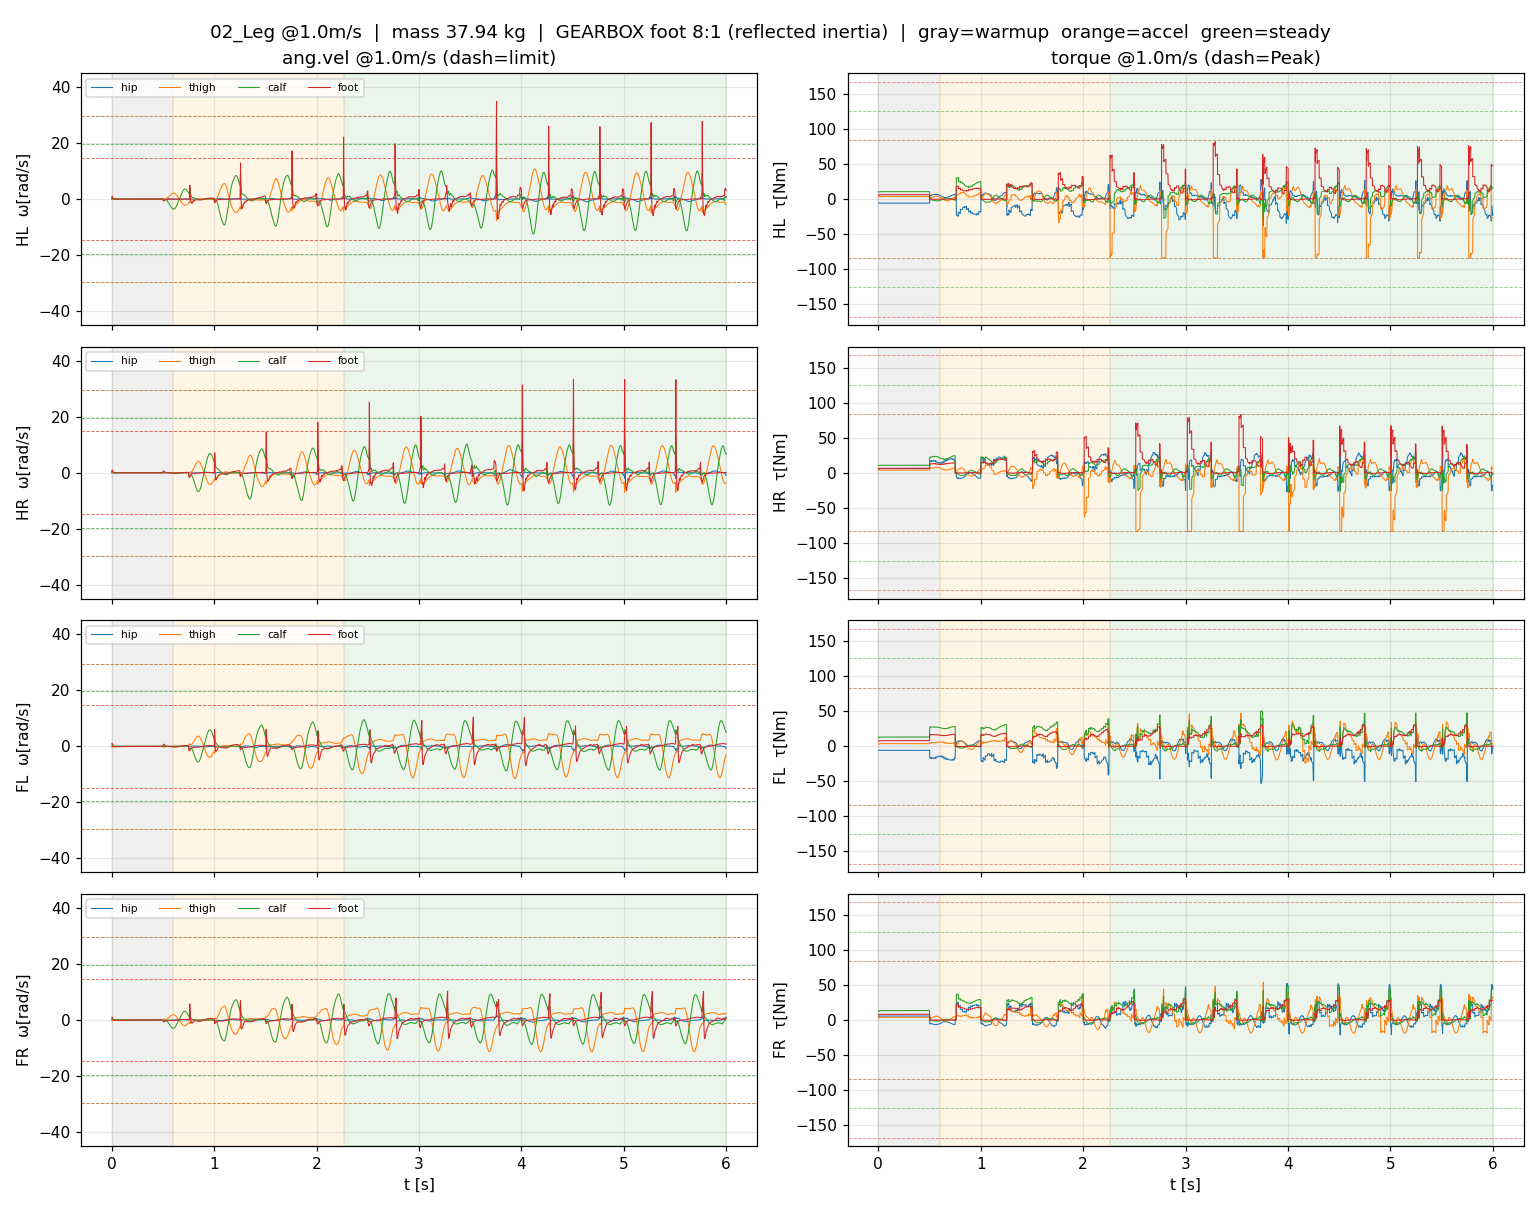
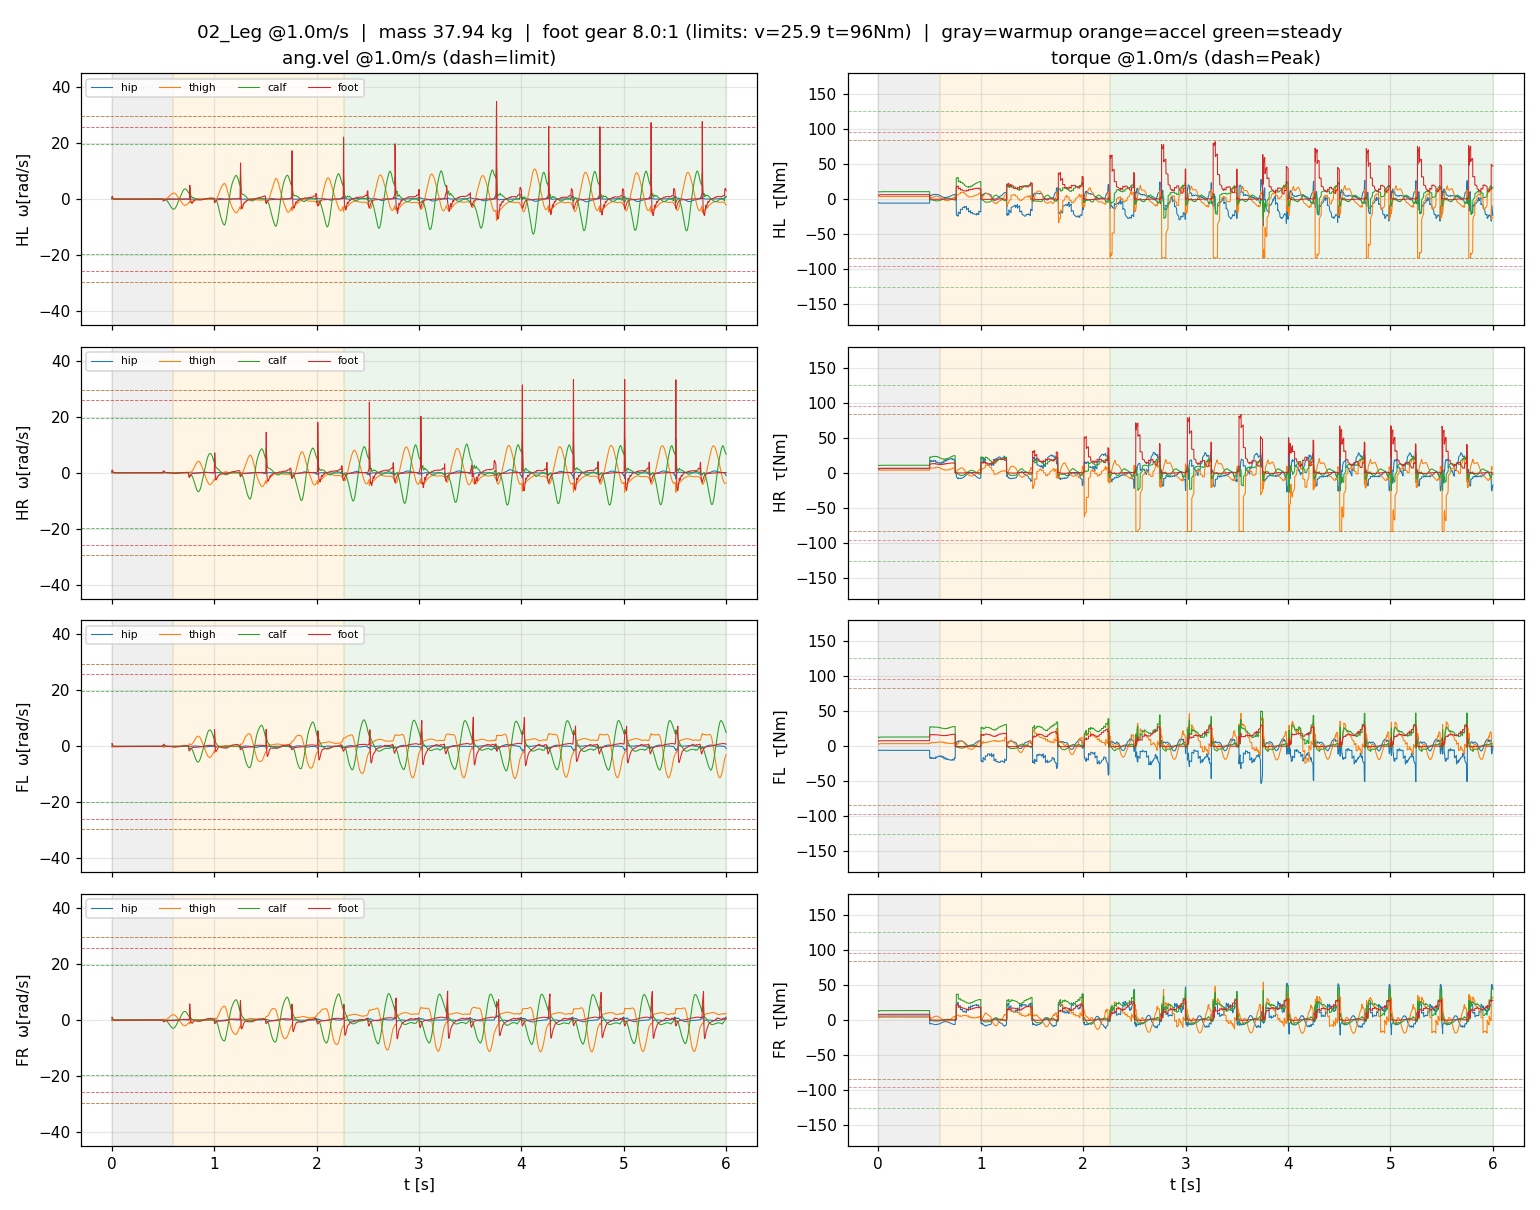
발별 그래프: 감속비 기반 한계선(토크=12·N, 속도=207/N) — foot 8:1 반영
한계가 기어비에 따라 변함(토크↑·속도↓ with N). GEAR_* env로 재기어 반영.
foot 8:1 → 속도한계 14.8→25.9, 토크한계 168→96.

Changed region(s): [[0.1247, 0.0, 0.8727, 0.0306]]

diff --git a/quad/plot_perfoot.py b/quad/plot_perfoot.py
@@ -12,9 +12,13 @@ out = sys.argv[2] if len(sys.argv) > 2 else '/home/jsh/문서/jsh/simulation/qua
 V = float(sys.argv[3]) if len(sys.argv) > 3 else 1.0
 mjcf = sys.argv[4] if len(sys.argv) > 4 else 'quad_real_17dof_sphere.mjcf'
 
-# 관절 한계 (02_Leg 모터): (Peak토크[Nm], 최대각속도[rad/s]). [[02leg-motor-spec]]
-TL = {'hip': 84, 'thigh': 84, 'calf': 126, 'foot': 168}
-WL = {'hip': 29.6, 'thigh': 29.6, 'calf': 19.7, 'foot': 14.8}
+# ★관절 한계 = 감속비 기반: 토크=motor_peak·N, 속도=motor_noload/N (N=기어). [[02leg-motor-spec]]
+#   nominal 7/7/10.5/14 → 토크 84/84/126/168, 속도 29.6/29.6/19.7/14.8. GEAR_FOOT 등 env로 재기어 반영.
+MOTOR_PEAK = 12.0; MOTOR_NOLOAD = 207.0            # 12Nm·207rad/s (84/7, 29.6*7)
+GEARMAP = {'hip': 7.0, 'thigh': 7.0, 'calf': 10.5, 'foot': 14.0}
+GEARN = {jt: GEARMAP[jt] * float(os.environ.get('GEAR_' + jt.upper(), '1.0')) for jt in GEARMAP}
+TL = {jt: MOTOR_PEAK * GEARN[jt] for jt in GEARMAP}       # 재기어 토크한계
+WL = {jt: MOTOR_NOLOAD / GEARN[jt] for jt in GEARMAP}     # 재기어 속도한계
 JCOL = {'hip': 'C0', 'thigh': 'C1', 'calf': 'C2', 'foot': 'C3'}
 JORDER = ['hip', 'thigh', 'calf', 'foot']
 LEGS = ['HL', 'HR', 'FL', 'FR']
@@ -64,8 +68,8 @@ for r, leg in enumerate(LEGS):
         ax_t.set_title('torque @%.1fm/s (dash=Peak)' % V)
 axes[-1, 0].set_xlabel('t [s]'); axes[-1, 1].set_xlabel('t [s]')
 mtxt = ('mass %.2f kg  |  ' % mass) if mass else ''
-fig.suptitle('02_Leg @%.1fm/s  |  %sGEARBOX foot 8:1 (reflected inertia)  |  gray=warmup  orange=accel  green=steady'
-             % (V, mtxt), fontsize=12)
+fig.suptitle('02_Leg @%.1fm/s  |  %sfoot gear %.1f:1 (limits: v=%.1f t=%.0fNm)  |  gray=warmup orange=accel green=steady'
+             % (V, mtxt, GEARN['foot'], WL['foot'], TL['foot']), fontsize=12)
 fig.tight_layout()
 fig.savefig(out, dpi=110)
 print('총질량: %s kg' % (('%.2f' % mass) if mass else '?'))
